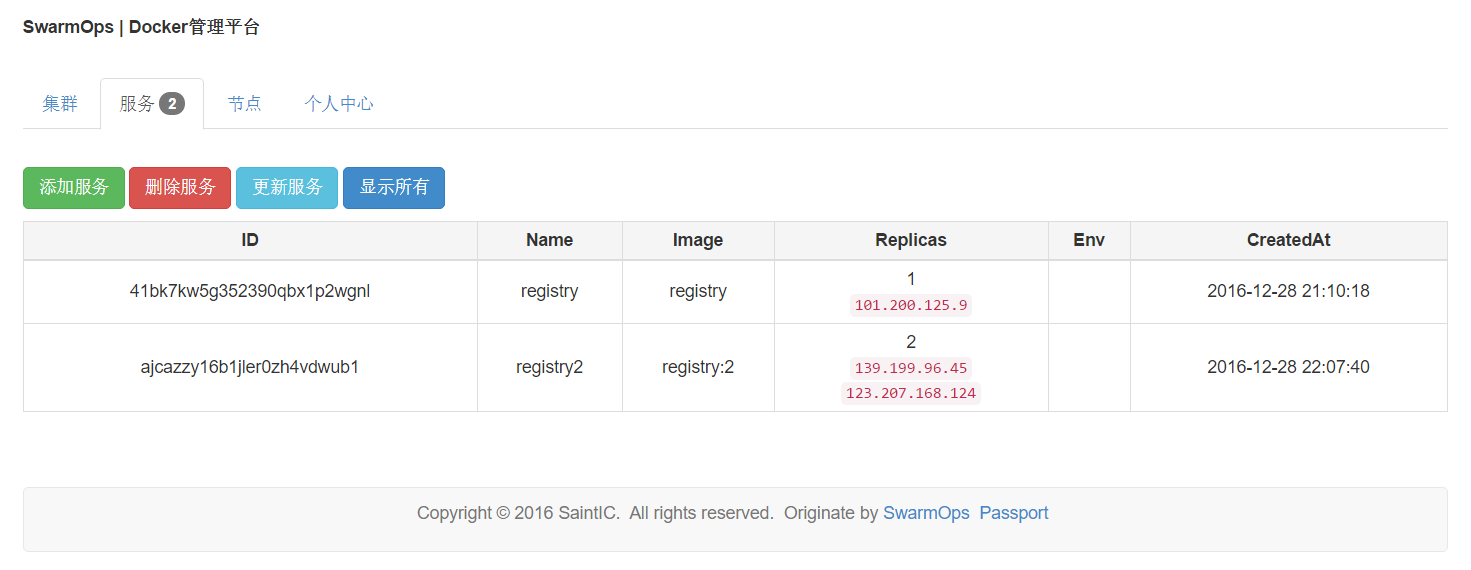
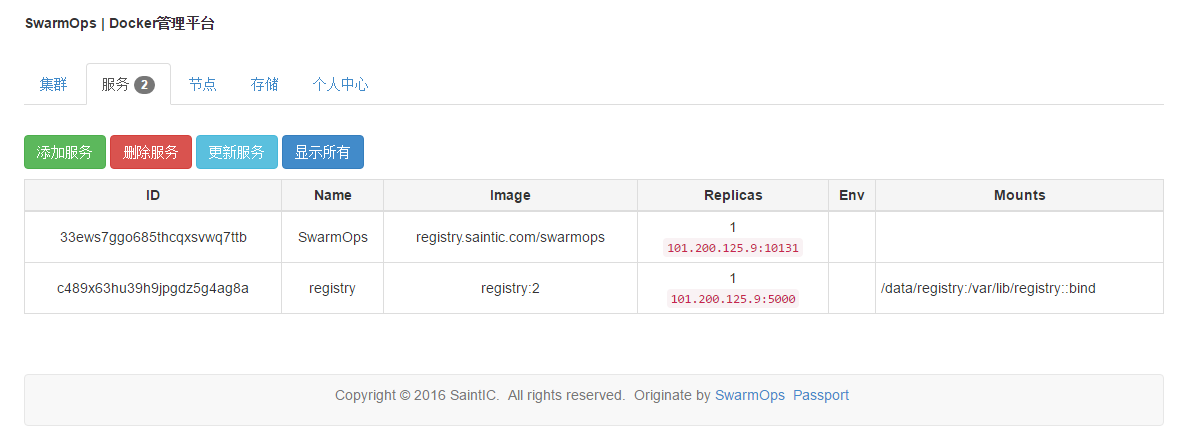
Update UI Pic

diff --git a/README.md b/README.md
@@ -43,6 +43,7 @@ MIT
 ![Swarms][2]
 ![Services][3]
 ![Nodes][4]
+![Storages][5]
 
 
 ## Api Design
@@ -73,3 +74,4 @@ MIT
   [2]: ./misc/swarm.png "集群"
   [3]: ./misc/service.png "服务"
   [4]: ./misc/node.png "节点"
+  [4]: ./misc/storage.png "存储"
